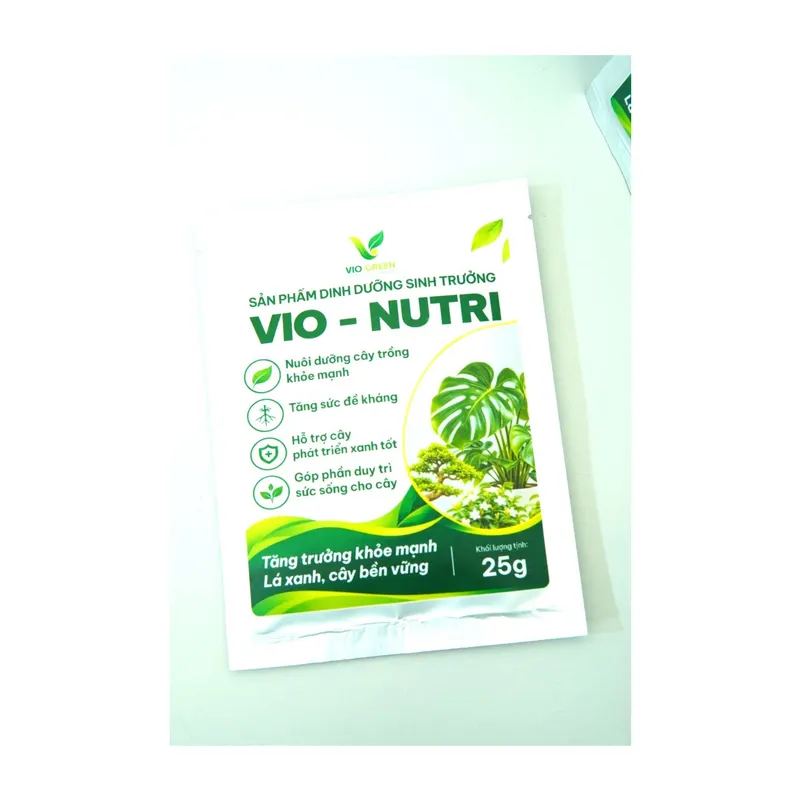
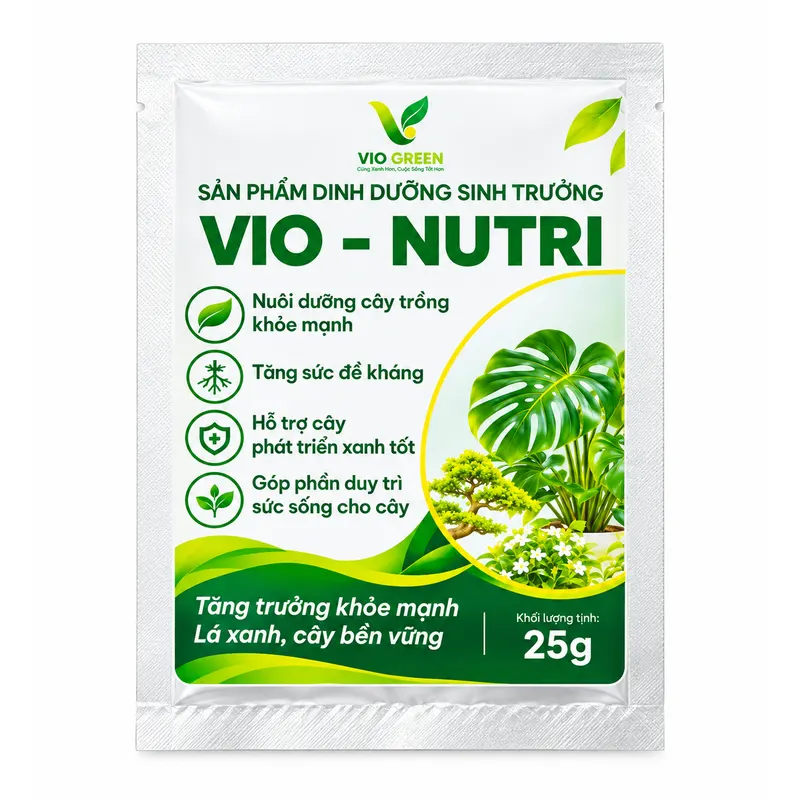
Bio-Nutri: thay anh bang bo anh moi tu Drive (goi 25g truoc/sau, hop 250g, 3 hop)
- 25g: anh mat truoc + mat sau goi; Box: anh hop don 250g (anh chinh) + anh 3 hop
- optimize-images: them squareCopy (ep khung vuong bang cach keo dai mep anh)
- Xoa 10 file webp anh chup cu khong con dung

diff --git a/src/data/products.ts b/src/data/products.ts
@@ -373,8 +373,8 @@ const raw: Raw[] = [
       'Có thể kết hợp với hệ thống ECOHUB khi cấu hình và hướng dẫn sử dụng cho phép.',
       'Thuận tiện cho việc bảo quản và sử dụng theo từng gói.',
     ] },
-    // Ảnh chụp thật (Drive "Bộ sản phẩm", 11/11/2026). Bao bì in "VIO-NUTRI", tên trên web giữ "Bio-Nutri" theo bảng giá khách.
-    images: [img('bio-nutri-25g'), img('bio-nutri-25g-sau'), img('bio-nutri-25g-tay'), img('bio-nutri-25g-nhieu')],
+    // Ảnh mặt trước + mặt sau gói (Drive khách gửi 14/11/2026, thay ảnh chụp 11/11). Bao bì in "VIO-NUTRI", tên trên web giữ "Bio-Nutri" theo bảng giá khách.
+    images: [img('bio-nutri-25g'), img('bio-nutri-25g-sau')],
     note: 'Sử dụng theo nhãn sản phẩm và hướng dẫn chính thức của VIO GREEN. Không tự ý tăng liều lượng hoặc sử dụng theo cách chưa được hướng dẫn.',
   },
   {
@@ -398,7 +398,8 @@ const raw: Raw[] = [
       'Có thể kết hợp với hệ thống bổ sung dinh dưỡng tự động của ECOHUB.',
       'Phù hợp với người dùng ECOHUB có nhu cầu bổ sung dinh dưỡng định kỳ cho cây.',
     ] },
-    images: [img('bio-nutri-box'), img('bio-nutri-box-goi'), img('bio-nutri-box-nhieu'), img('bio-nutri-box-tay')],
+    // Ảnh hộp 250g + ảnh 3 hộp (Drive khách gửi 14/11/2026).
+    images: [img('bio-nutri-box'), img('bio-nutri-box-3')],
     note: 'Sử dụng theo nhãn sản phẩm và hướng dẫn chính thức của VIO GREEN. Không tự ý tăng liều lượng hoặc sử dụng theo cách chưa được hướng dẫn.',
   },
 ];

diff --git a/CLAUDE.md b/CLAUDE.md
@@ -135,6 +135,8 @@ Hai file Figma "Web thương mại" (`en71kyh7uPWqtgZL5FAdpu`) và "Web App 360x
 
 **Đã xong:** 34 trang build OK, `astro check` 0 lỗi, đã thử trên mobile (360px) và desktop.
 
+**Đợt sửa 14/11/2026 (ảnh Bio-Nutri mới):** thay bộ ảnh chụp 11/11 bằng 4 ảnh dựng sẵn từ Drive `1ER2Kv5toGSdSO2gIopchgIkRC36Uoc28` (`images-src/2026-11/bio-nutri-moi/`): 25g = mặt trước + mặt sau gói; Box = ảnh hộp đơn 250g (`hop-phan-250g.png`, chủ web thay cho ảnh hộp in nhầm "500gr" đã xoá) + ảnh 3 hộp (`bio-nutri-box-3`); 2 ảnh Box ép khung vuông bằng `squareCopy`. Đã xoá 10 file webp cũ không còn dùng.
+
 **Đợt sửa 13/11/2026 (Đánh giá khách hàng & form nhận xét sản phẩm):**
 - **Trang chủ:** Điền danh sách đánh giá vào `src/data/reviews.ts` (đã bỏ đại từ nhân xưng); chỉ lọc các đánh giá tích cực **4 và 5 sao**, tự động **chọn ngẫu nhiên (random) 3 đánh giá** mỗi lần khách ghé thăm hoặc tải lại trang, hiển thị lưới 3 cột cân đối.
 - **Trang chi tiết sản phẩm (`/san-pham/[slug]`):** Thêm component `ProductReviews.astro` hiển thị danh sách đánh giá theo sản phẩm, điểm số trung bình, và form cho khách hàng tự viết đánh giá (chọn 1–5 sao tương tác, họ tên, liên hệ, không gian, nhận xét chi tiết; lưu `localStorage` để hiện ngay trên máy khách và đồng thời gửi lead về Firestore).
